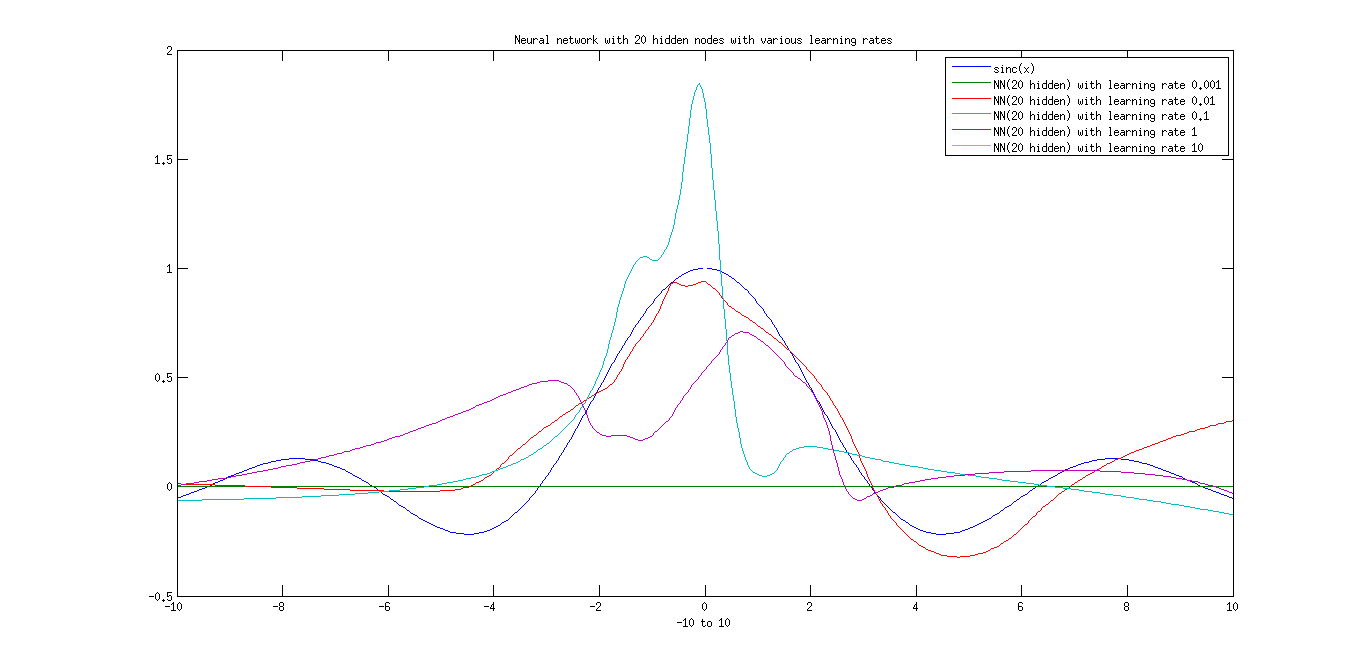
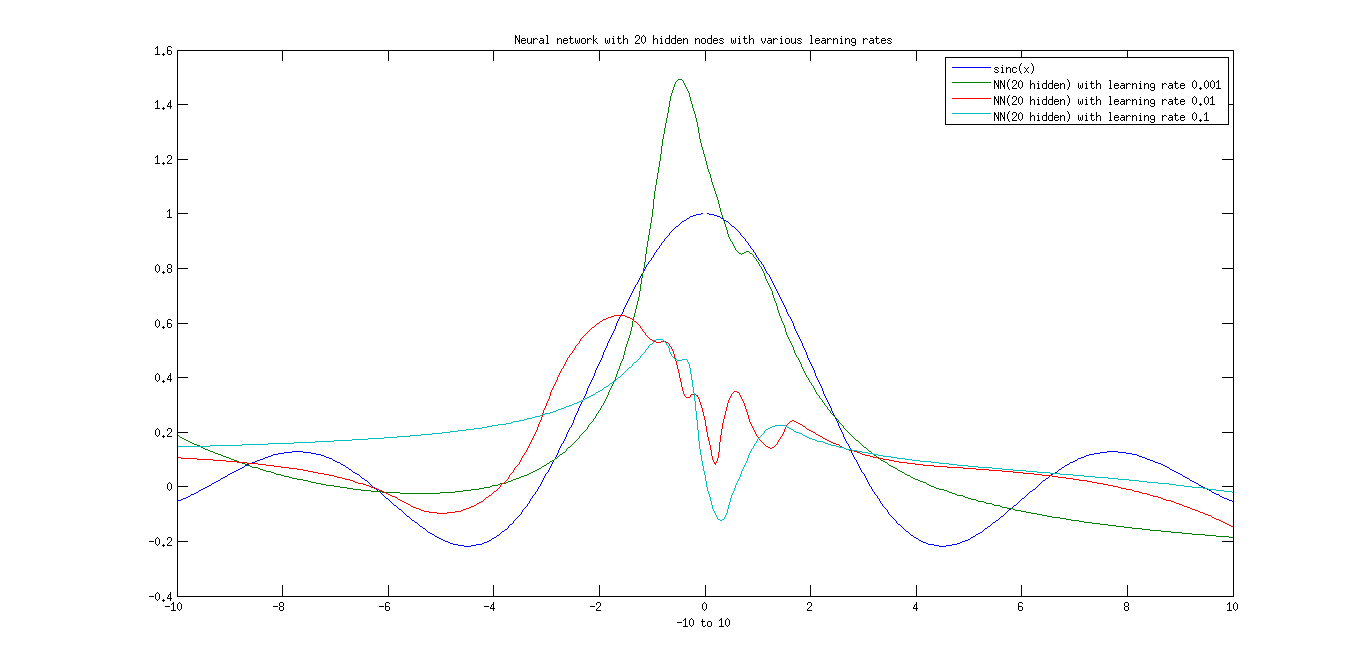
Lol

diff --git a/Assignment3/matlab/III_1_2.m b/Assignment3/matlab/III_1_2.m
@@ -47,39 +47,41 @@ xlabel('Network epoch');
 ylabel('Mean-Squared Error');
 hold off;
 
-% Warning: The below use of preds and counter is ugly. Sorry!
-rates = [0.001, 0.01, 0.1, 1, 10];
+rates = [0.001, 0.01, 0.1];
 points = -10:0.05:10;
 sincvalues = arrayfun(sinc, points);
-preds = zeros(length(rates) * 2, length(points));
-for m=[2, 20]
-    counter = 0;
-    if m==20
-        counter = length(rates) + 1;
-    end
-    for l=rates
-        counter = counter + 1;
-        [wMD, wKM, errors_train, errors_val] = nnTrain(X, y, X_validate, y_validate, h, dh, K, m, D, l, stopDifference);
-        for x=1:length(points)
-           [~,~,preds(counter,x)] = forwardProp([1; points(x)], h, wMD, wKM);
-        end
+preds = zeros(length(rates), length(points));
+for i=1:length(rates)
+    rate = rates(i);
+    [wMD, wKM, errors_train, errors_val] = nnTrain(X, y, X_validate, y_validate, h, dh, K, 2, D, rate, stopDifference);
+    for x=1:length(points)
+       [~,~,preds(i,x)] = forwardProp([1; points(x)], h, wMD, wKM);
     end
 end
 
 % Plot networks vs. sinc(x) for 2 hidden nodes
 figure;
-plot(points, sincvalues,points, preds(1,:),points, preds(2,:),points, preds(3,:),points, preds(4,:),points, preds(5,:));
+plot(points, sincvalues, points, preds(1,:), points, preds(2,:), points, preds(3,:));
 hold on;
 title('Neural network with 2 hidden nodes with various learning rates');
-legend('sinc(x)','NN(2 hidden) with learning rate 0.001','NN(2 hidden) with learning rate 0.01','NN(2 hidden) with learning rate 0.1','NN(2 hidden) with learning rate 1','NN(2 hidden) with learning rate 10');
+legend('sinc(x)','NN(2 hidden) with learning rate 0.001','NN(2 hidden) with learning rate 0.01','NN(2 hidden) with learning rate 0.1');
 xlabel('-10 to 10');
 hold off;
 
+preds = zeros(length(rates), length(points));
+for i=1:length(rates)
+    rate = rates(i);
+    [wMD, wKM, errors_train, errors_val] = nnTrain(X, y, X_validate, y_validate, h, dh, K, 20, D, rate, stopDifference);
+    for x=1:length(points)
+       [~,~,preds(i,x)] = forwardProp([1; points(x)], h, wMD, wKM);
+    end
+end
+
 % Plot networks vs. sinc(x) for 20 hidden nodes
 figure;
-plot(points, sincvalues,points, preds(6,:),points, preds(7,:),points, preds(8,:),points, preds(9,:),points, preds(10,:));
+plot(points, sincvalues,points, preds(1,:),points, preds(2,:),points, preds(3,:));
 hold on;
 title('Neural network with 20 hidden nodes with various learning rates');
-legend('sinc(x)','NN(20 hidden) with learning rate 0.001','NN(20 hidden) with learning rate 0.01','NN(20 hidden) with learning rate 0.1','NN(20 hidden) with learning rate 1','NN(20 hidden) with learning rate 10');
+legend('sinc(x)','NN(20 hidden) with learning rate 0.001','NN(20 hidden) with learning rate 0.01','NN(20 hidden) with learning rate 0.1');
 xlabel('-10 to 10');
 hold off;

diff --git a/Assignment3/tex/content.tex b/Assignment3/tex/content.tex
@@ -40,7 +40,7 @@ afterwards.
   \label{fig:mse20}}
 \end{figure}
 
-Figure~\ref{fig:mse2} and Figure~\ref{fig:mse20} show the Mean-Squared Error(MSE) of the two
+Figure~\ref{fig:mse2} and Figure~\ref{fig:mse20} show the Mean-Squared Error (MSE) of the two
 neural networks across learning epochs. In both cases we see a steady decrease in error, however
 the error of the 20-node network is significantly lower than the 2-node network. It is probable that
 our 2-node network is incapable of illustrating the kind of distribution that the data stems from,
@@ -49,7 +49,7 @@ causing severe issues for certain data points.
 \subsection*{Sinc vs. Neural Network}
 Figures~\ref{fig:sinc2} and~\ref{fig:sinc20} show the \texttt{sinc(x)} function across the range
 $[-10; 10]$ alongside neural networks with 2 and 20 nodes respectively. The network with 2 nodes
-fits the data roughly like two functions of the kind $f(x)=a/(1+norm(a)$ strung together with linear
+fits the data roughly like two functions of the kind $f(x)=a/(1+norm(a))$ strung together with linear
 weight coefficients. Increasing the number of nodes to 20 allows the linear combination of weights
 and inputs and activations to express a distribution closer to that of \texttt{sinc(x)}.
 
@@ -75,7 +75,7 @@ increases, in order to obtain a network that hopefully has better generalization
 we continued.
 
 \section*{III.2.1}
-\textbf{Mean/variuance of the training data}\\
+\textbf{Mean/variance of the training data}\\
 \begin{tabular}{|r|r|r|r|r|r|}
 \hline
 priorTrainMean & priorTrainVar & trainMean & trainVar & testMean & testVar \\\hline
